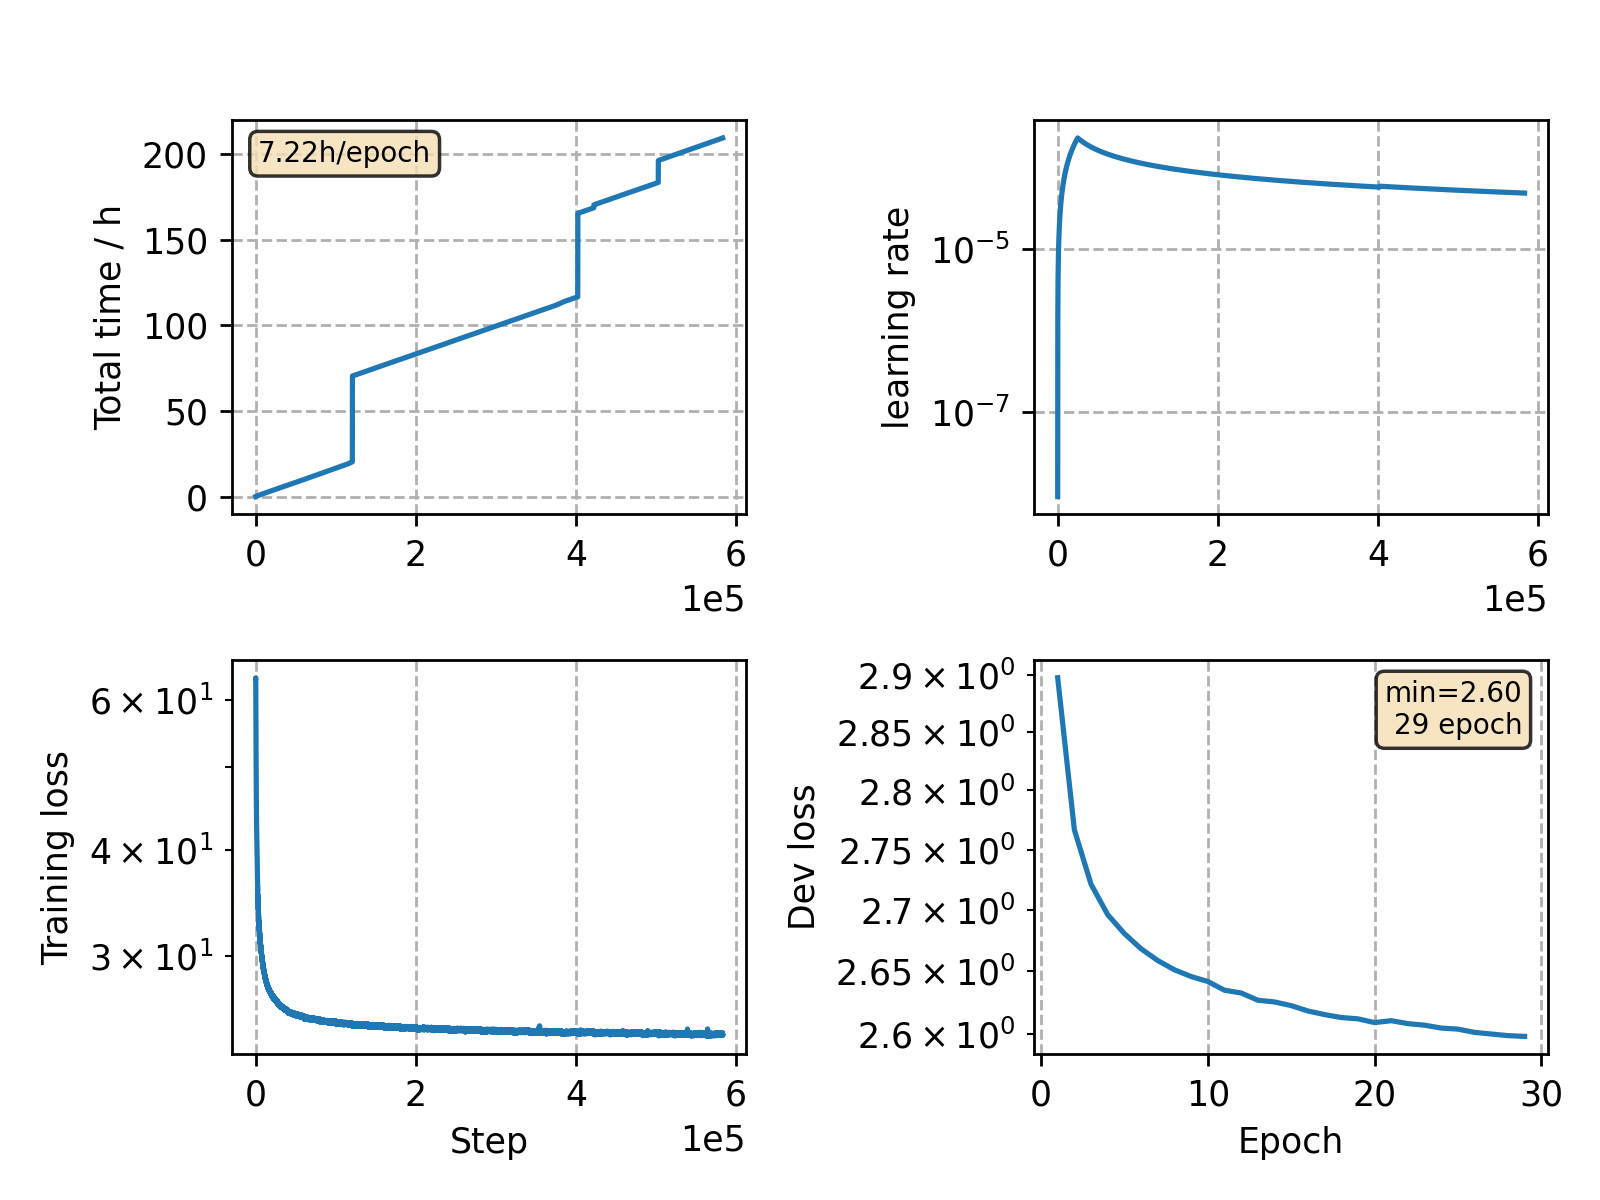
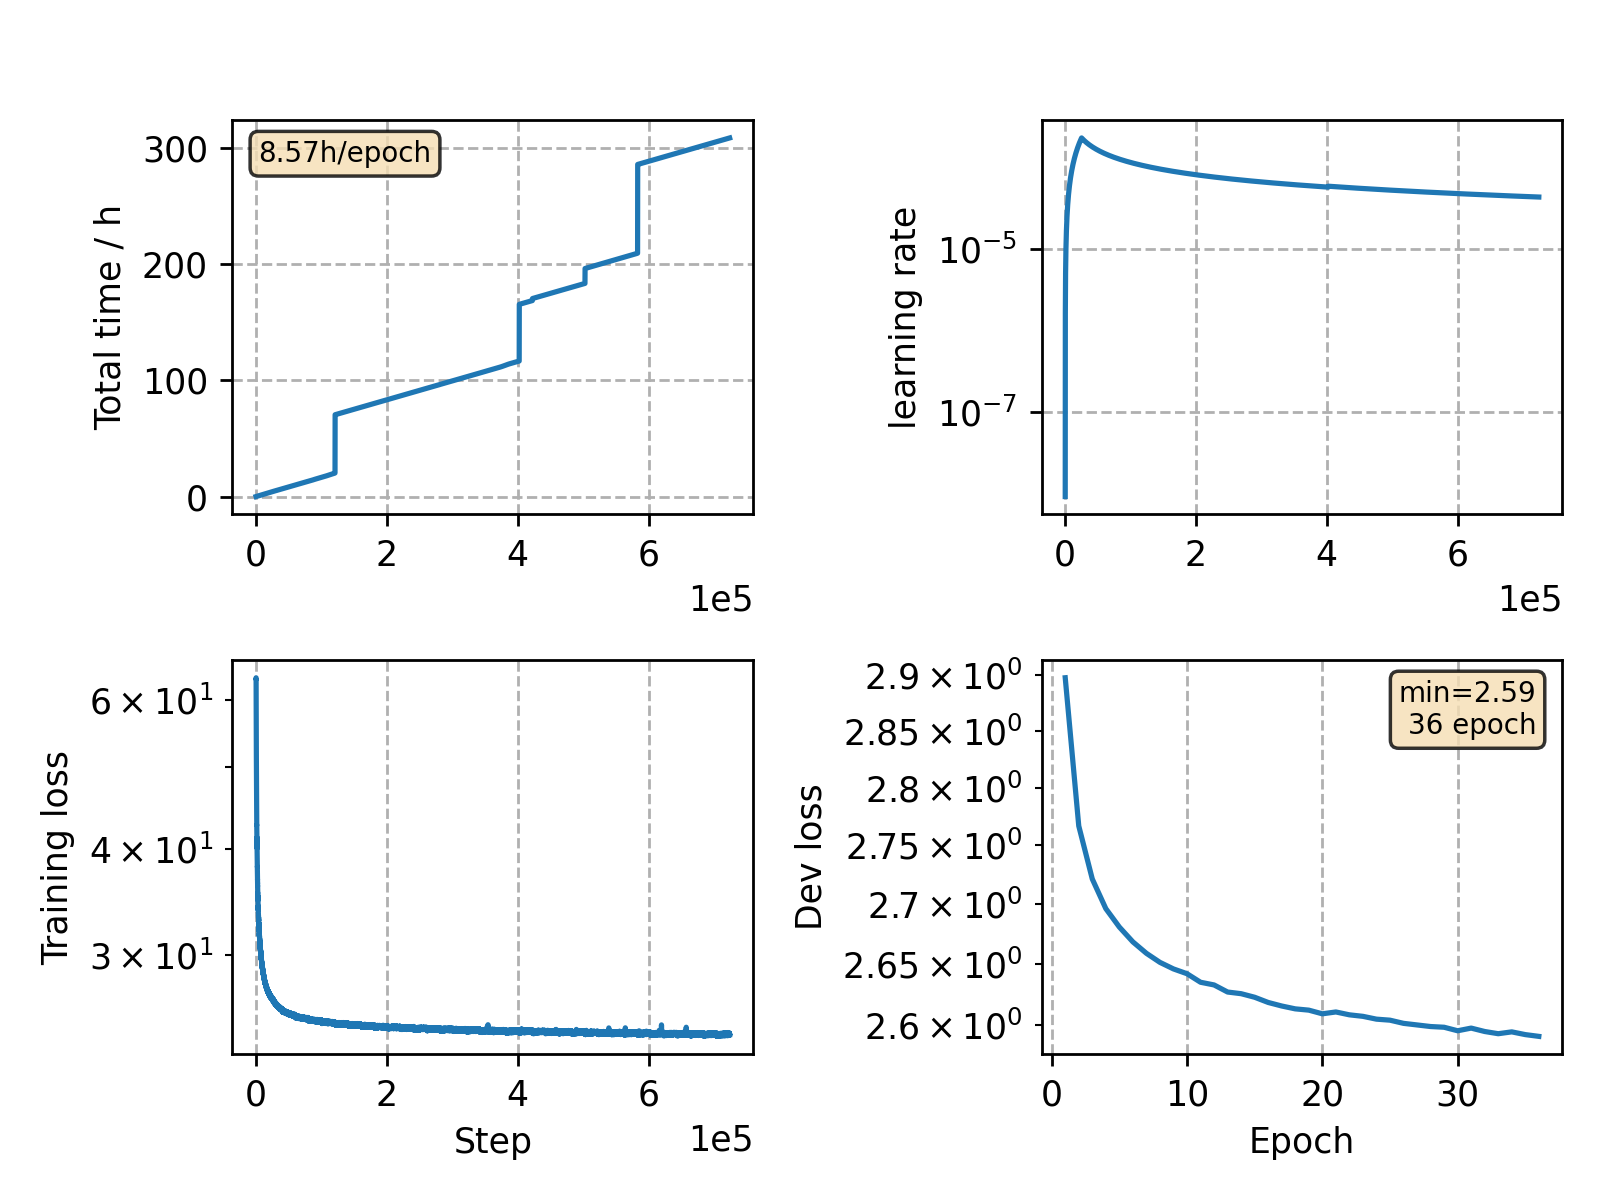
[result] libri update lm-v9 & rnnt-v27

diff --git a/egs/libri/exp/rnnt-v27/readme.md b/egs/libri/exp/rnnt-v27/readme.md
@@ -15,8 +15,13 @@
 baseline ALSD 16
 test-clean/test-other   2.38/5.40
 
-fusion with lm-v9
-test-clean/test-other   1.99/4.52
+fusion with lm-v9 0.45, lm trained 28 epochs
+test-clean/test-other   1.96/4.44
+
+fusion with lm-v9 0.45, lm trained 35 epochs
+test_clean      %WER 1.95 [1025 / 52576, 128 ins, 98 del, 799 sub ]
+test_other      %WER 4.46 [2334 / 52343, 235 ins, 281 del, 1818 sub ]
+
 ```
 
 ### Monitor figure

diff --git a/egs/libri/exp/lm-v9/readme.md b/egs/libri/exp/lm-v9/readme.md
@@ -8,13 +8,14 @@
 
 ### Appendix
 
-* 
+* trained 35 epochs
+* '36 epochs' in the figure is due to some plotting error.
 
 ### Result
 ```
 Perplexity over dataset is 
-word piece level: 15.54
-word level: ~ 87.54  (exp(log(15.54)*180796/110909))
+word piece level: 15.44
+word level: ~ 86.63  (exp(log(15.44)*180796/110909))
 ```
 
 ### Monitor figure
